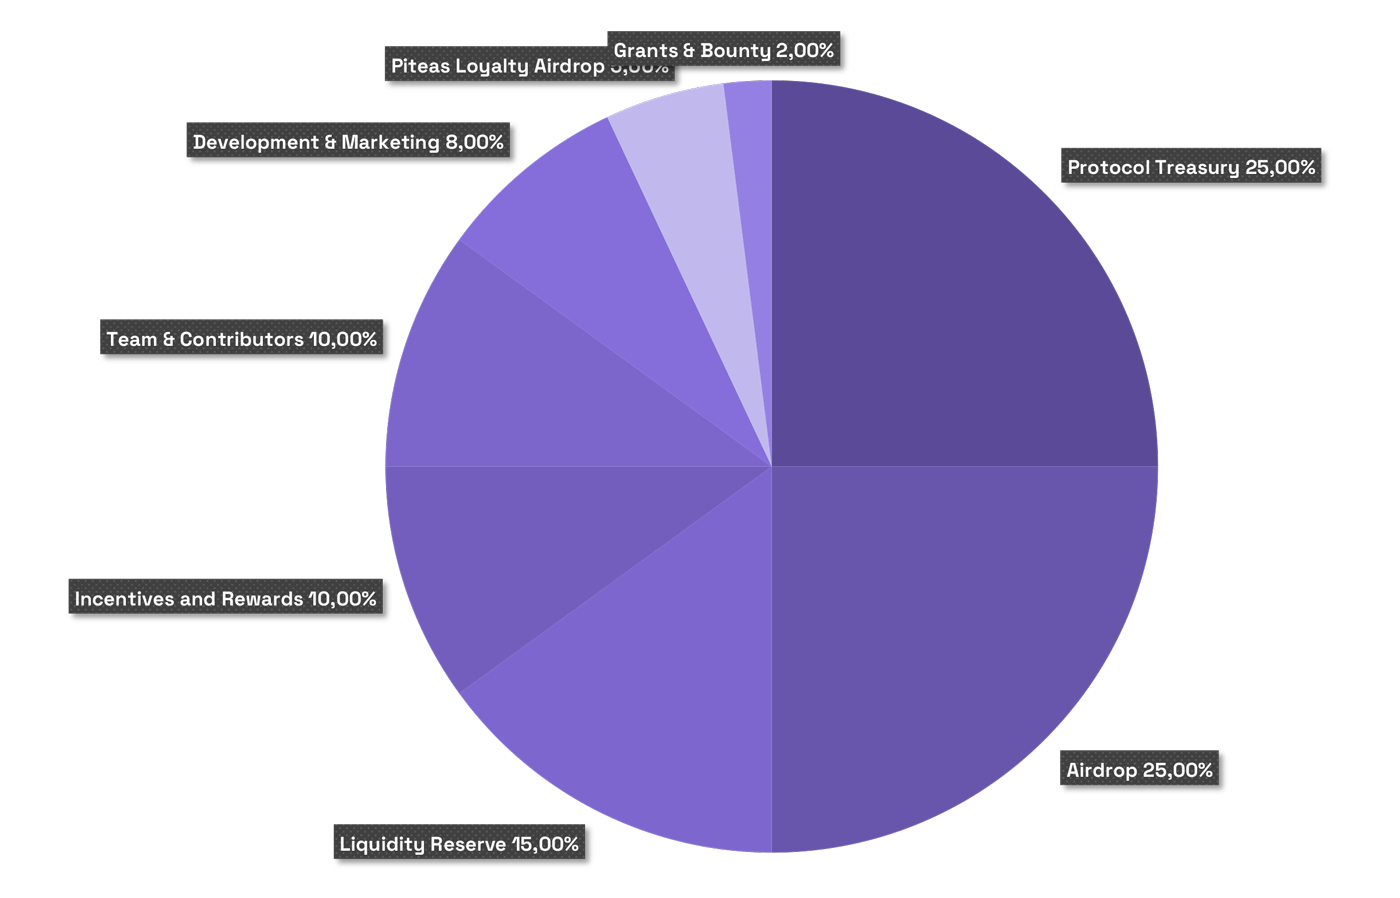
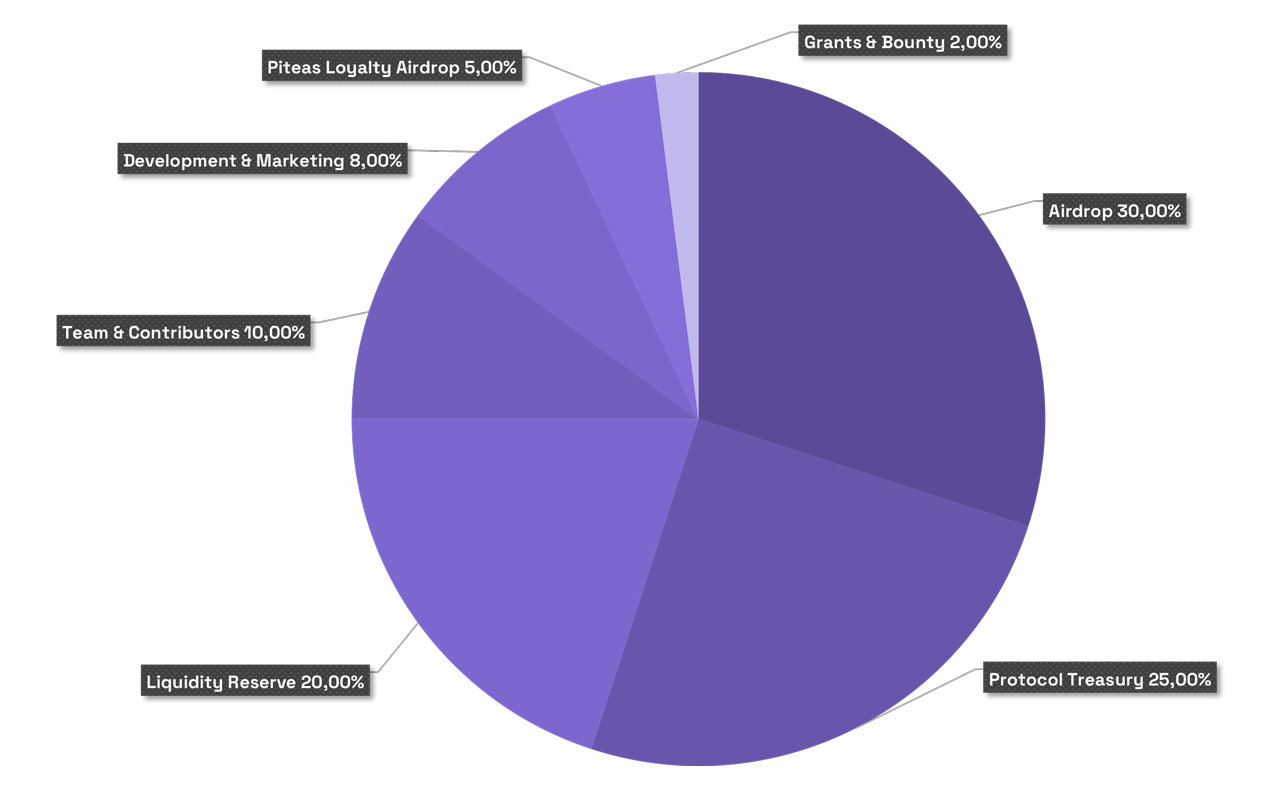
GITBOOK-15: No subject

diff --git a/pday-token/manifest-and-faq.md b/pday-token/manifest-and-faq.md
@@ -1,0 +1,65 @@
+# 💬 Manifest & FAQ
+
+The core mission of the Piteas team is to strive towards creating new products to advance and expand Pulsechain. In this context, leveraging our ecosystem experience along with community feedback, we're taking steps to bring some of the products needed by the ecosystem to life with Pday.
+
+It's important to note that both Piteas and Pday share the same development team behind them. Although there is inherently an organic connection between the two protocols, they operate independently in terms of accounting and decision-making.
+
+***
+
+We anticipate some questions from the community, so we want to share some of our thoughts here to address them 👇
+
+<details>
+
+<summary>There was already a sacrifice round for Piteas before, why are you doing it again for Pday?</summary>
+
+As mentioned, each protocol will have its own accounting, so we believe it's necessary to evaluate each process separately. However, let's delve a bit deeper to address any lingering questions.
+
+This isn't a meme or hyped protocol; we're building an economy. There will be an intensive development process lasting 3-4 months, and it needs to be financed.
+
+The community has seen what we've built with Piteas with a small budget, and we receive praise for it frequently. It's clear that this time we need a bigger budget because we're hiring new talent. So far, we've agreed to contracts with 2 back-end devs, 1 front-end dev, and a computer scientist for consultancy in the AI phase. As you can imagine, the annual salaries of these individuals are high. Remember that 1inch has a core team of \~15 people and over 70 contributors; as Piteas, we've produced a product of that level with a team of 4. We'll go through a similar process for the new project. Having talented and not overly greedy developers is crucial.
+
+</details>
+
+<details>
+
+<summary>There are some community prejudices about the sacrifices on Pulsechain, what do you say about this?</summary>
+
+We understand the community's cautious approach to this issue, but we'd like to say a few things to dispel these prejudices on our behalf.
+
+Piteas is a non-forked, native product developed entirely by our team, considered one of the most difficult to develop in the DeFi space. Nevertheless, our team developed Piteas entirely using their own resources and launched it after completing all audits. This makes it the first project to be launched before a sacrifice on Pulsechain. During the sacrifice process, the community showed lower participation than expected (partly due to the SEC decision being around the same time), and we had a budget of \~$550K post-TGE. Additionally, we'd like to mention that the funds from the protocol treasury were also sacrificed.
+
+Ultimately, with this limited budget, we launched PTS, and as of February 2024, we believe it's necessary to share the following data.
+
+* The PTS token price is trading \~4x higher than the sac price.
+* The TVL of token liquidities from our treasury exceeds $2,000,000.
+* In the 6 months post-TGE, PTS buybacks exceeding $450,000 in current value were made. These tokens were allocated for staking rewards.
+* In the 7-month period, Piteas has generated approximately $650,000, surpassing the sacrifice budget, 75% of which was used for protocol developments. We currently have a significant treasury.
+* Since its launch, Piteas has become the second most transaction-intensive protocol on Pulsechain.
+
+As y'all can see from the above statistics, Piteas has made significant investments in a short period and has received increasing user numbers and protocol revenue in return. In short, while we understand and acknowledge the prejudices in the sacrifice processes; these do not apply to Piteas.
+
+</details>
+
+<details>
+
+<summary>Why didn't you set a cap for the sacrifice round, and what will you do if more sacrifices are made than needed?</summary>
+
+This was one of the main concerns of our team. However, in the final decision, we decided to forgo setting a limit on a stage we call "sacrifice." We believe in letting the community determine the value of Pday. However, we'd like to mention that we have A/B plans in place. Here's how it works:
+
+Sacrifice assets can never be used for personal purposes outside of protocol needs and expenses! This is one of our fundamental principles, as seen in the Piteas process, and is non-negotiable. During the complex development process of Pday, there will be significant expenses, and both these expenses and the provision of liquidity during the TGE stage and afterwards will be funded using sacrifice assets. In the event of any excess assets remaining from this planning process, there are three possibilities. The first is allocating assets for liquidity and treasury. The second is funding the development process of new products belonging to the Pday protocol. The final option is to fairly payback those who participated in the sacrifice round.
+
+Rest assured that we uphold ethical values, and if there's an excessive amount of assets that would create more responsibility than we deserve, we won't hesitate to consult with our community and sacrificers on what to do.
+
+</details>
+
+<details>
+
+<summary>Does having PLS/HEX/PLSX among the sacrificed tokens raise any concerns?</summary>
+
+Absolutely, that's correct! Like with Piteas, we have a plan to address this issue for Pday as well. To avoid creating selling pressure on HEX and Pulsechain assets, we'll pay for all development and post-development expenses of Pday with stables/others. We'll also provide ecosystem tokens along with PDAY during the liquidity generation phase to strengthen these ecosystem assets. In summary, eliminating selling pressure for ecosystem assets and convincing the community about this is one of our priorities.
+
+</details>
+
+Finally, we want to emphasize that we were very eager to develop and launch Pday under Piteas. Piteas has achieved tremendous success with its current economy, but we didn't have the resources or team members to develop a second project of the same scale. We've addressed many points, reviewed our income, and had frequent meetings with our developers. The Openbook model will be a massive model containing 4 core-products in total, and we didn't have the time or resources to manage both protocols flawlessly.\
+\
+**Peace!**

diff --git a/pday-token/tokenomics.md b/pday-token/tokenomics.md
@@ -16,23 +16,25 @@ PDAY Token is the utility token of Pday and represents voting rights in the upco
 
 ### **Tokenomics Detail:**
 
-<table data-header-hidden data-full-width="true"><thead><tr><th width="259"></th><th width="151" align="center"></th><th width="162" align="center"></th><th width="435"></th></tr></thead><tbody><tr><td>Protocol Treasury</td><td align="center">25%</td><td align="center">25,000,000</td><td>Team/DAO Management - Locked</td></tr><tr><td>Airdrop</td><td align="center">25%</td><td align="center">25,000,000</td><td>100% unlock at TGE</td></tr><tr><td>Liquidity Reserve</td><td align="center">15%</td><td align="center">15,000,000</td><td>100% unlock at TGE</td></tr><tr><td>Incentives and Rewards</td><td align="center">10%</td><td align="center">10,000,000</td><td>10% at TGE, then linear vesting for 10 months</td></tr><tr><td>Team &#x26; Contributors</td><td align="center">10%</td><td align="center">10,000,000</td><td>10% at TGE, then linear vesting for 10 months</td></tr><tr><td>Development &#x26; Marketing</td><td align="center">8%</td><td align="center">8,000,000</td><td>10% at TGE, then linear vesting for 10 months</td></tr><tr><td>Piteas Loyalty Airdrop</td><td align="center">5%</td><td align="center">5,000,000</td><td>100% unlock at TGE</td></tr><tr><td>Grants &#x26; Bounty</td><td align="center">2%</td><td align="center">2,000,000</td><td>10% at TGE, then linear vesting for 10 months</td></tr><tr><td><strong>Total</strong></td><td align="center"><strong>100%</strong></td><td align="center"><strong>100,000,000</strong></td><td><em>Initial suppy: 48,000,000 PDAY</em></td></tr></tbody></table>
+<table data-header-hidden data-full-width="true"><thead><tr><th width="259"></th><th width="151" align="center"></th><th width="162" align="center"></th><th width="435"></th></tr></thead><tbody><tr><td>Airdrop</td><td align="center">30%</td><td align="center">30,000,000</td><td>100% unlock at TGE</td></tr><tr><td>Protocol Treasury</td><td align="center">25%</td><td align="center">25,000,000</td><td>Team/DAO Management - Locked</td></tr><tr><td>Liquidity Reserve</td><td align="center">20%</td><td align="center">20,000,000</td><td>100% unlock at TGE</td></tr><tr><td>Team &#x26; Contributors</td><td align="center">10%</td><td align="center">10,000,000</td><td>10% at TGE, then linear vesting for 10 months</td></tr><tr><td>Development &#x26; Marketing</td><td align="center">8%</td><td align="center">8,000,000</td><td>10% at TGE, then linear vesting for 10 months</td></tr><tr><td>Piteas Loyalty Airdrop</td><td align="center">5%</td><td align="center">5,000,000</td><td>100% unlock at TGE</td></tr><tr><td>Grants &#x26; Bounty</td><td align="center">2%</td><td align="center">2,000,000</td><td>10% at TGE, then linear vesting for 10 months</td></tr><tr><td><strong>Total</strong></td><td align="center"><strong>100%</strong></td><td align="center"><strong>100,000,000</strong></td><td><em>Initial suppy at TGE: 57,000,000 PDAY</em></td></tr></tbody></table>
 
 Here are some details about token allocations 👇
 
-* **Protocol Treasury**: Allocated for Pday' future plans and is decided not to be used without community approval. It can be used in later stages with community approval for purposes like expanding to different networks, sourcing liquidity, or similar processes.
 * **Airdrop**: Allocated for individuals who contributed during the sacrifice process and distributed fairly. A small portion is reserved for potential airdrops to incentivize protocol usage in the future.
+* **Protocol Treasury**: Allocated for Pday' future plans and is decided not to be used without community approval. It can be used in later stages with community approval for purposes like expanding to different networks, sourcing liquidity, or similar processes.
 * **Liquidity Reserve**: Approximately 50-75% provided as liquidity during the token launch phase. The remaining assets are held in reserve for future liquidity provision stages.
-* **Incentives and Rewards**: Used for rewarding liquidity providers and stakers, supporting protocol partnerships, funding developments that help grow the ecosystem, grants, and other related purposes.
 * **Team & Contributors**: Allocated for developers and salaried individuals who support the protocol's development.
 * **Development & Marketing**: Allocated to cover expenses related to marketing Pday and to support the majority of technological developments and expenses of the protocol.
 * **Piteas Loyalty Airdrop:** These tokens will be used for a customized reward system for participants of Piteas's sacrifice and PTS holders.
 * **Grants & Bounty**: Allocated for third-party applications and personal initiatives related to protocol security, development, and marketing.
 
-_It is essential to transfer unused, idle, or tokens that have been deemed unnecessary for planning changes to the treasury._
+{% hint style="success" %}
+**Piteas Loyalty Airdrop - Information**\
+_To eliminate Sybil attacks and make a fair decision, we will not share the criteria for the Piteas Loyalty Rewards airdrop at this stage. Details regarding this will be shared with the community when the time is right._
+{% endhint %}
 
 
 
-**Token Distribution**
+#### **Token Distribution**
 
 <figure><img src="../.gitbook/assets/PDAY-Tokenomics-Sheet.png" alt=""><figcaption><p>Tokenomics - Share</p></figcaption></figure>

diff --git a/pday-token/sacrifice-details.md b/pday-token/sacrifice-details.md
@@ -16,7 +16,11 @@ _Please note that the following information is provided for informational purpos
 
 Pday Sacrifice Round is designed to provide an opportunity for participants to show their support for the Pday protocol. It is important to understand that the sacrifice round is not an investment or a means to earn profits. Participants are contributing tokens to the protocol with no expectation of financial returns. Please carefully read the following information before sacrifice.
 
-> Sacrifice assets can never be used for personal purposes outside of protocol needs and expenses! This is one of our fundamental principles, as seen in the Piteas process, and is non-negotiable. During the complex development process of Pday, there will be significant expenses, and both these expenses and the provision of liquidity during the TGE stage and afterwards will be funded using sacrifice assets. In the event of any excess assets remaining from this planning process, there are three possibilities. The first is allocating assets for liquidity and treasury. The second is funding the development process of new products belonging to the Pday protocol. The final option is to fairly payback those who participated in the sacrifice round.
+> _Sacrifice assets can never be used for personal purposes outside of protocol needs and expenses! This is one of our fundamental principles, as seen in the Piteas process, and is non-negotiable. During the complex development process of Pday, there will be significant expenses, and both these expenses and the provision of liquidity during the TGE stage and afterwards will be funded using sacrifice assets._
+>
+> _In the event of any excess assets remaining from this planning process, there are three possibilities. The first is allocating assets for liquidity and treasury. The second is funding the development process of new products belonging to the Pday protocol. The final option is to fairly payback those who participated in the sacrifice round._
+
+
 
 Get started on **Pday Sacrifice Portal** now 👇
 
@@ -54,8 +58,9 @@ After the completion of the Sacrifice phase, a bonus reward will be provided to 
 
 * The 1st ranked wallet will receive an additional 10% bonus.
 * Wallets ranked 2nd to 5th will receive an additional 8% bonus.
-* Wallets ranked 5th to 10th will receive an additional 5% bonus.\
+* Wallets ranked 5th to 10th will receive an additional 5% bonus.
 
+***
 
 #### Wallet Restrictions
 
@@ -68,6 +73,12 @@ Sacrifice Points will be calculated based on the USD value at the time of the tr
 #### Final Stage
 
 After the completion of the Pday Sacrifice Round, there will be a one-week break to consolidate the contributions. A portion of the assets will be allocated to provide liquidity for the token's swap operations across multiple decentralized exchanges (DEX) protocols. Additionally, a portion of the assets will be held in the treasury for potential future listings on both centralized and decentralized exchanges.
+
+#### The Use of Sacrifice Assets:
+
+The assets collected in the sacrifice wallet will be allocated to fund the development process and beyond for Pday. These funds will be used to cover expenses during the period leading up to the protocol launch, finance new hires and investments, and cover the costs of the audit process. After the launch, they will be allocated to the treasury both as collateral to sustain the protocol and for basic expenses. Additionally, sacrifice assets will be largely used to provide liquidity during the PDAY token's TGE phase.
+
+To avoid creating selling pressure on HEX and Pulsechain assets, we will pay all expenses using stable assets. We will provide ecosystem tokens alongside PDAY during the liquidity generation phase, thereby strengthening these ecosystem assets. In summary, safeguarding ecosystem assets is one of our top priorities in our planning.
 
 ***
 

diff --git a/pday-token/token-utility.md b/pday-token/token-utility.md
@@ -1,10 +1,12 @@
 # 🐇 Token Utility
 
-The PDAY Token, which will serve as the governance and utility token for Pday protocol, is designed to have limited supply and be resistant to manipulations.
+The Pday Token serves as both the governance and utility token of the Pday protocol. Due to the protocol architecture, PDAY holds significant importance, especially at the core of the revenue model.
 
-#### What are the Token Utilities?
+While initially resembling a share, the PDAY token's authority will expand alongside its utility areas, nourished by ecosystem revenues.
 
-* **Buyback Progress:** Revenue generated by the protocol will be used for periodic buybacks from the market. The purchased tokens can be burned or used for the benefit of protocol users or the community.
-* **Liquidity Provide:** Liquidity assets are of great importance for a token's strength, which is why we will use protocol revenue to provide liquidity and keep liquidity assets strong. The protocol generates revenue from various tokens, not just a fixed token. Therefore, the generated revenue can be in PDAY, PLS, or any other tokens. Liquidity will be provided with PDAY and the tokens obtained as a result of the revenue.
+#### What are the token utilities?
+
+* **Buyback Progress:** Revenue generated by the protocol will be used for periodic buybacks from the market. The purchased tokens can be boosted for staking pool or used for the benefit of protocol users or the community.
+* **Liquidity Provide:** Liquidity assets are of great importance for a token's strength, which is why we will use protocol revenue to provide liquidity and keep liquidity assets strong.
 * **Single Side Staking:** Token holders can lock their assets to earn passive income. The rewards will initially be supported by the protocol treasury and will also have a claim on the staking rewards from the protocol's revenue. _(coming soon)_
-* **Swap Fee Reduction:** The fee charged by the protocol for transactions will be dynamic based on the proportion of the token you stake. _(coming soon)_
+* **Swap Fee Reduction:** The fee charged by the protocol for txs will be dynamic based on the proportion of the token you stake. For Openbook/OTC/DCA/Limit order products. _(coming soon)_

diff --git a/SUMMARY.md b/SUMMARY.md
@@ -23,6 +23,7 @@
 * [🪙 Tokenomics](pday-token/tokenomics.md)
 * [🐇 Token Utility](pday-token/token-utility.md)
 * [🌕 Sacrifice Details](pday-token/sacrifice-details.md)
+* [💬 Manifest & FAQ](pday-token/manifest-and-faq.md)
 
 ***
 
